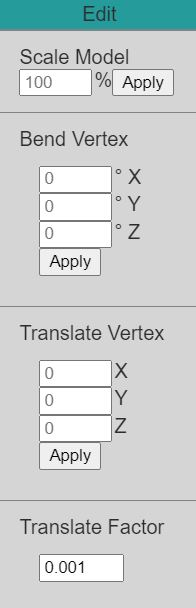
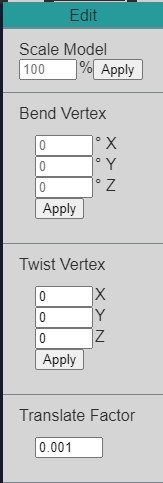
Updated help page

diff --git a/frontend/app/public/help.html b/frontend/app/public/help.html
@@ -31,8 +31,8 @@
     <p class = "help_text">The "Select" button in the toolbar also has a checkbox allowing you to quickly toggle selection mode on and off.</p>
     <h2>View Controls</h2>
     <h3 class = "subhead">Zoom</h3>
-    <p class = "help_text">The zoom function changes the camera perspective to be closer or farther from the model. One way you can access the zoom feature is through the "View" button on the toolbar. In the View menu, there is a "Zoom" button where you can manipulate the zoom percentage. </p>
-    <p class = "help_text">The second way you can access zoom controls is through the "Move Camera" checkbox on the toolbar. When the checkbox is clicked, mouse camera controls are active and you can zoom in and out by scrolling on the mouse.</p>
+    <p class = "help_text">The zoom function changes the camera perspective to be closer or farther from the model. One way you can access the zoom feature is through the "View" button on the toolbar. In the View menu, there is a "Zoom" button where you can see + and - buttons. </p>
+    <p class = "help_text">The second way you can access zoom controls is through the + and - keys on the keyboard.</p>
     <img src="./help_imgs/move_cam_box.JPG" alt="image of move camera checkbox" class="help_img">
     <h3 class = "subhead">Perspective</h3>
     <p class = "help_text">One way you can adjust the camera position is by adjusting the manual controls located in the camera controls menu. The camera controls can be accessed by clicking on the camera button in the toolbar.</p>
@@ -45,9 +45,10 @@
     <h3 class = "subhead">Scale</h3>
     <p class = "help_text">You can scale the model if you would like to internally alter the size of the model in the file. To scale the model, click on the "Edit" button in the toolbar, and under "Scale Model" you can enter the scaling percentage. </p>
     <h3 class = "subhead">Vertex Manipulation</h3>
-    <p class = "help_text">The edit menu also has two other tools for translating and bending selected vertices. </p>
+    <p class = "help_text">The edit menu also has a few other tools for translating and bending selected vertices. </p>
     <img src="./help_imgs/edit_menu.JPG" alt="image of edit menu" class="help_img">
-    <p class = "help_text">From this menu you can enter numeric units to translate or bend vertices on each axis. </p>
+    <p class = "help_text">From this menu you can enter numeric units to twist or bend vertices on each axis. </p>
+    <p class = "help_text">You can also set the "Translate Factor" which controls how much vertices are translated using the arrows.</p>
     <h2>Other</h2>
     <h3 class = "subhead">Re-center</h3>
     <p class = "help_text">The re-center icon on the toolbar can be used to reset the camera perspective back to the center of the canvas.</p>
